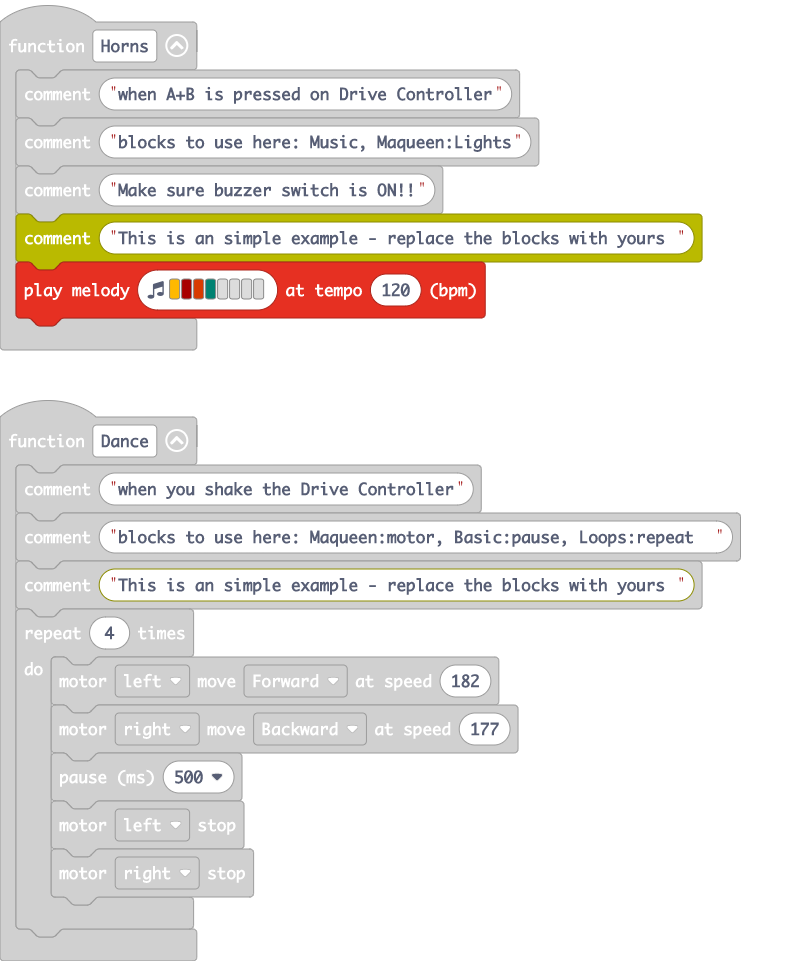
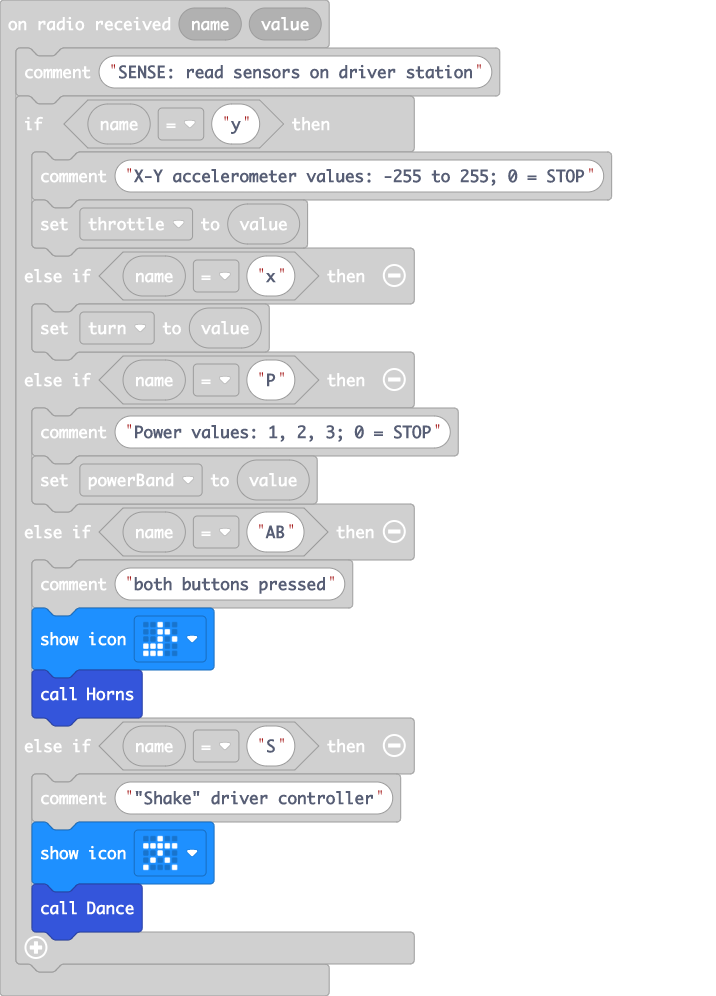
Update main.blocks, main.ts

diff --git a/main.ts b/main.ts
@@ -29,9 +29,11 @@ radio.onReceivedValue(function (name, value) {
         powerBand = value
     } else if (name == "AB") {
         comment.comment("both buttons pressed")
+        basic.showIcon(IconNames.EigthNote)
         Horns()
     } else if (name == "S") {
         comment.comment("\"Shake\" driver controller")
+        basic.showIcon(IconNames.StickFigure)
         Dance()
     }
 })
